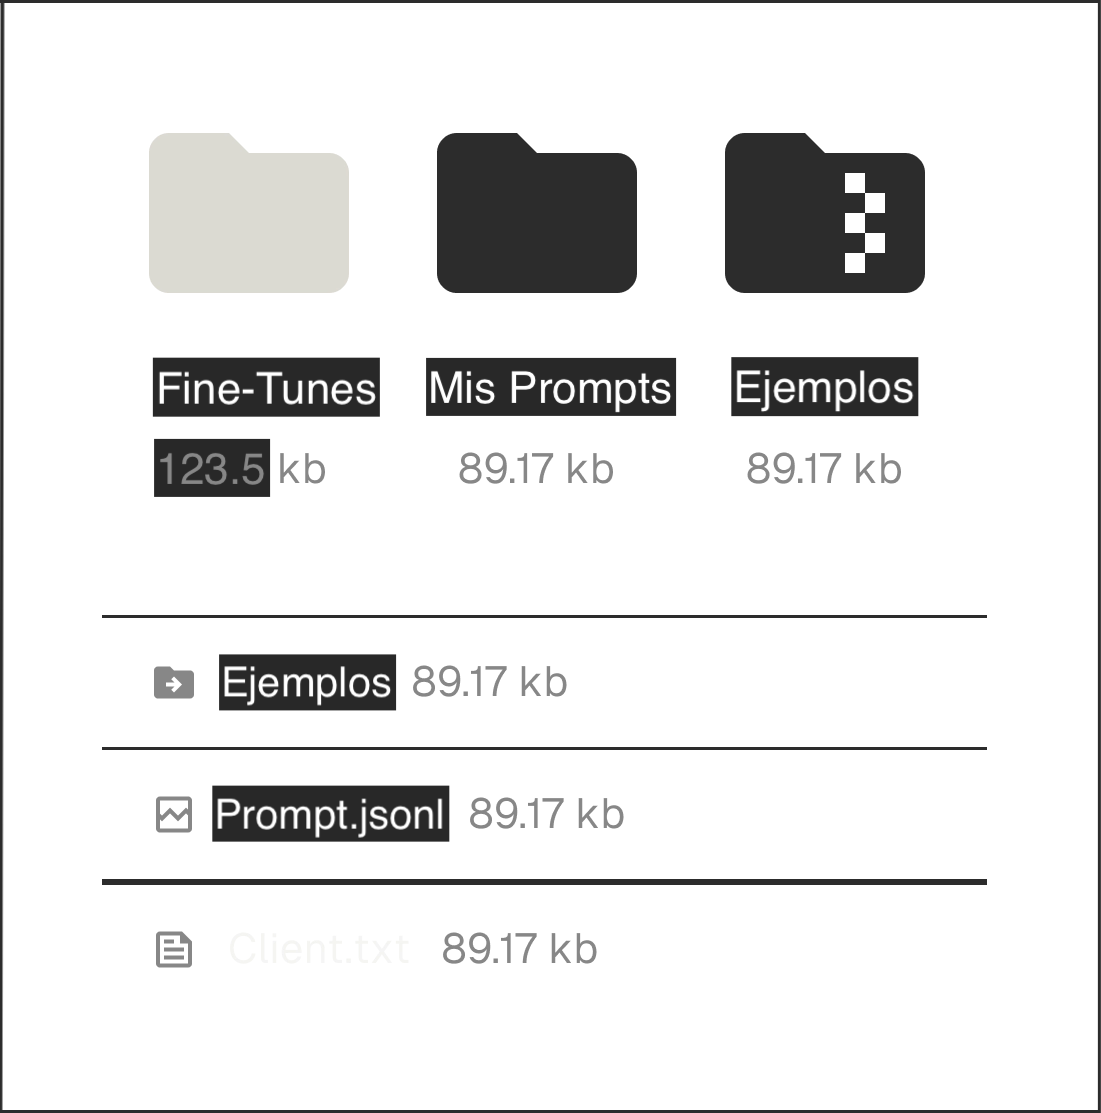
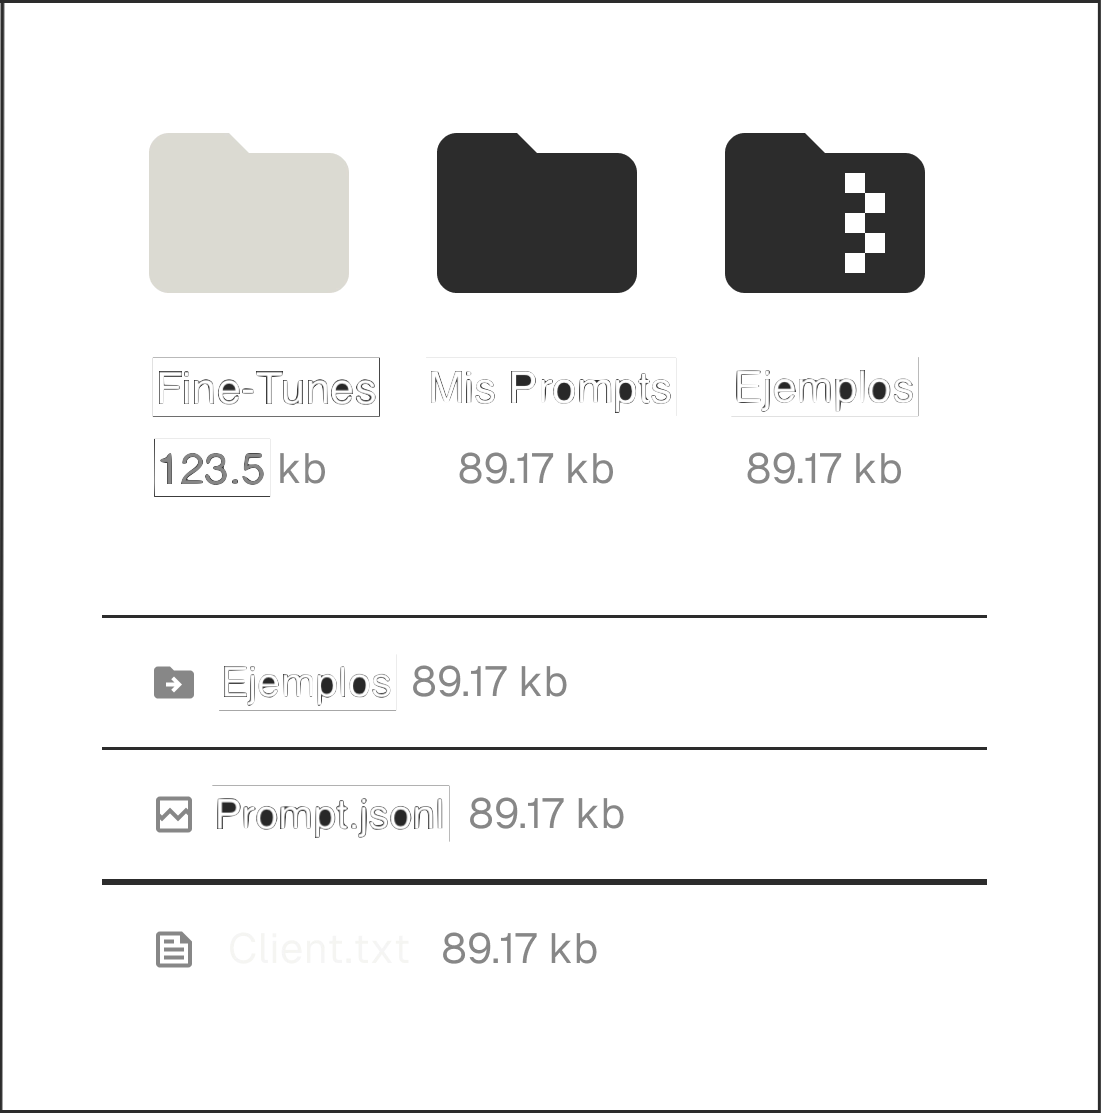
df

diff --git a/components/sections/section-five.tsx b/components/sections/section-five.tsx
@@ -10,7 +10,7 @@ export function SectionFive() {
           src={vault}
           quality={100}
           alt="Vault"
-          className="mt-6 lg:mt-0 basis-1/2 object-contain md:max-w-[367px] border-l-[1px] border-border"
+          className="mt-6 lg:mt-0 basis-1/2 object-contain md:max-w-[367px] border-l-[1px] border-border dark:invert-0 invert"
         />
 
         <div className="flex flex-col basis-1/2">
@@ -38,7 +38,7 @@ export function SectionFive() {
           src={exporting}
           quality={100}
           alt="Export"
-          className="md:mt-auto mt-8"
+          className="md:mt-auto mt-8 dark:invert-0 invert"
         />
       </div>
     </section>
